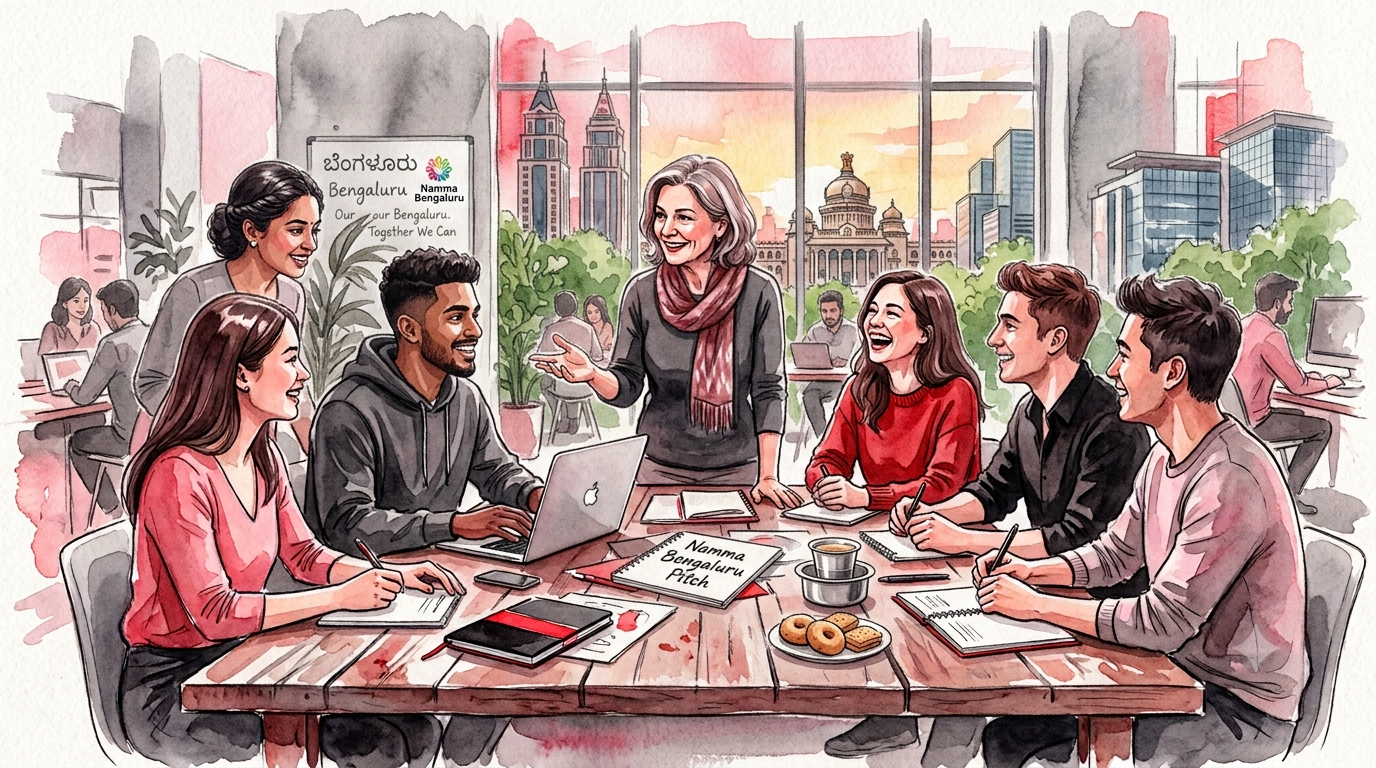
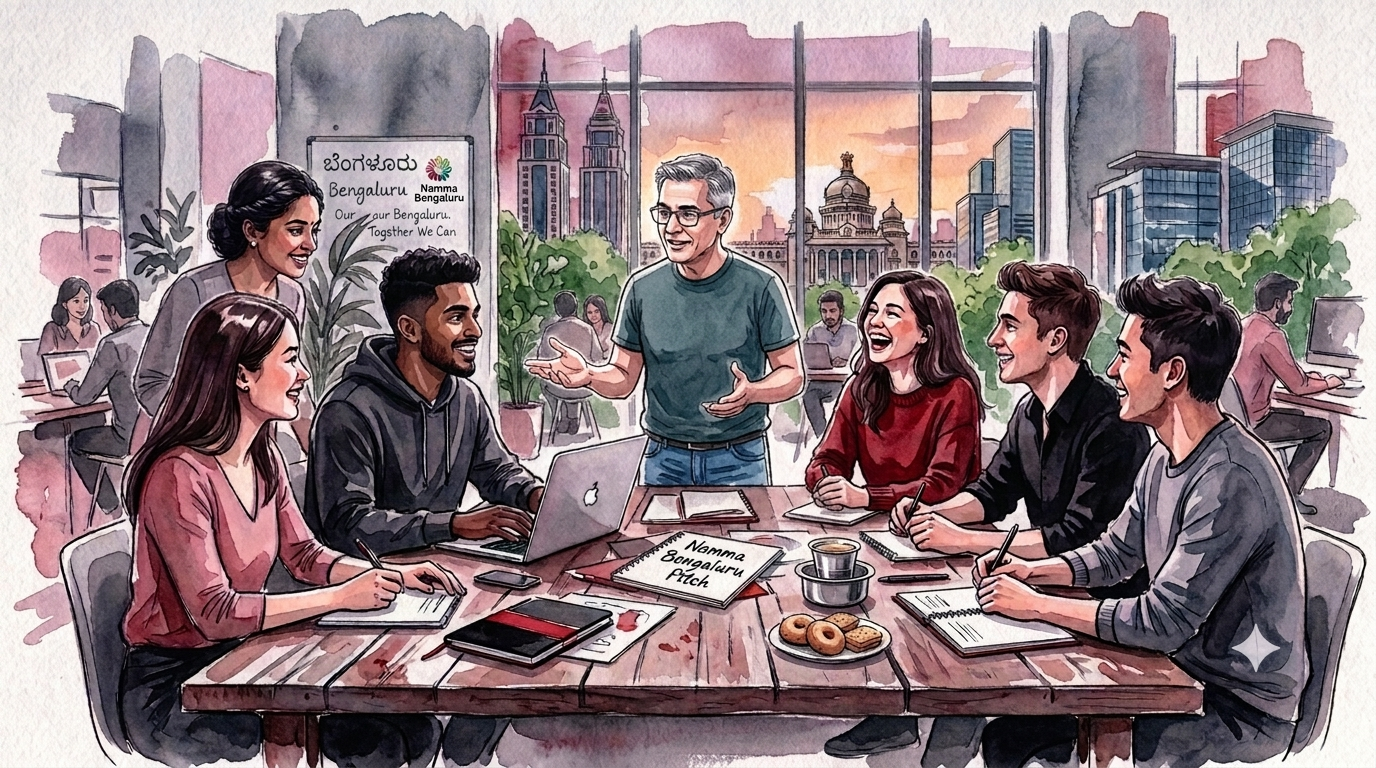
Update startup mentor hero image, fix Image dimensions to match source
Corrected the Image component's width/height to 1376x768 to match the actual file's aspect ratio, preventing a layout-shift mismatch.

diff --git a/src/app/startup-mentor-bengaluru/page.tsx b/src/app/startup-mentor-bengaluru/page.tsx
@@ -389,8 +389,8 @@ export default function StartupMentorBengaluruPage() {
           <Image
             src="/images/startup-mentor-hero.png"
             alt="Startup mentor Prem Menon, Bengaluru"
-            width={800}
-            height={600}
+            width={1376}
+            height={768}
             priority
             className="mix-blend-multiply h-auto w-full self-start"
           />
